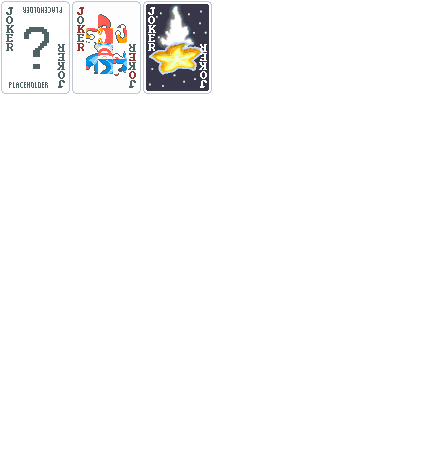
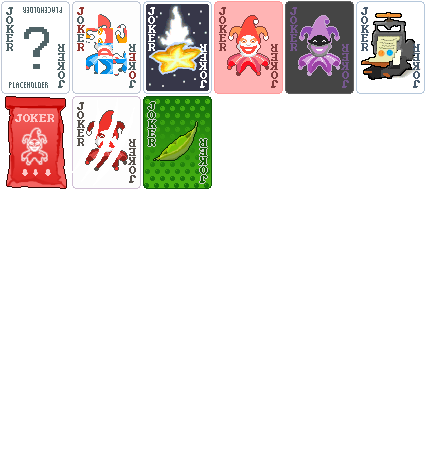
v0.1.3 Update

Changed region(s): [[0.0, 0.0, 1.0, 0.4126], [0.9765, 0.0, 1.0, 0.0295]]

diff --git a/README.md b/README.md
@@ -18,7 +18,7 @@ Currently, <b>Emporium</b> adds the following to <b>Balatro</b>:
 </p>
 
 <details style="margin-bottom: 15px;">
-<summary><b>Jokers</b>: 18 new jokers, each with unique abilities and effects.</summary>
+<summary><b>Jokers</b>: 19 new jokers, each with unique abilities and effects.</summary>
 <ul style="margin-top: 10px;">
     <li><b>Shadow Joker</b>: +20 Mult if played hand is a Two Pair and contains only Spades and Clubs</li>
     <li><b>Crimson Joker</b>: +20 Mult if played hand is a Two Pair and contains only Diamonds and Hearts</li>
@@ -30,6 +30,7 @@ Currently, <b>Emporium</b> adds the following to <b>Balatro</b>:
     <li><b>Peapod</b>: If poker hand is a Three of a Kind, destroy this Joker and create 3 free Double Tags</li>
     <li><b>Wishing Star</b>: This Joker gains +5 Mult and increases payout by $1 if a Lucky card is played</li>
     <li><b>Pawn Shop</b>: Played Steel cards earn $1 and give X1.5 Mult when scored</li>
+    <li><b>Moai</b>: Played Stone cards give an extra +100 chips when scored</li>
     <li><b>Extra Wild</b>: Played Wild cards give X1.5 Chips</li>
     <li><b>Wild Bear</b>: Each Wild card held in hand gives X1.5 Mult</li>
     <li><b>Scales of Equilibrium</b>: This Joker gives X2 Mult when remaining hands and discards are equal</li>
